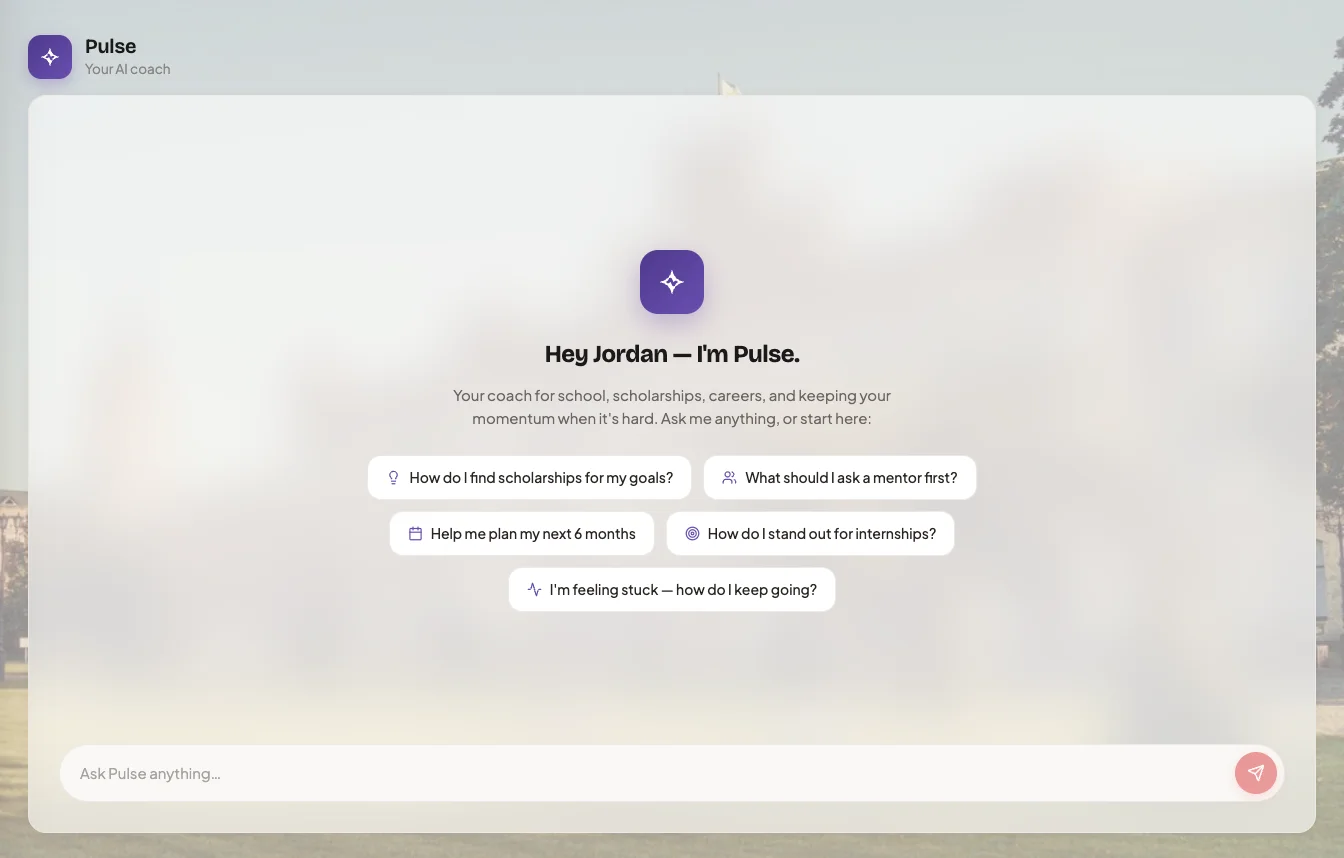
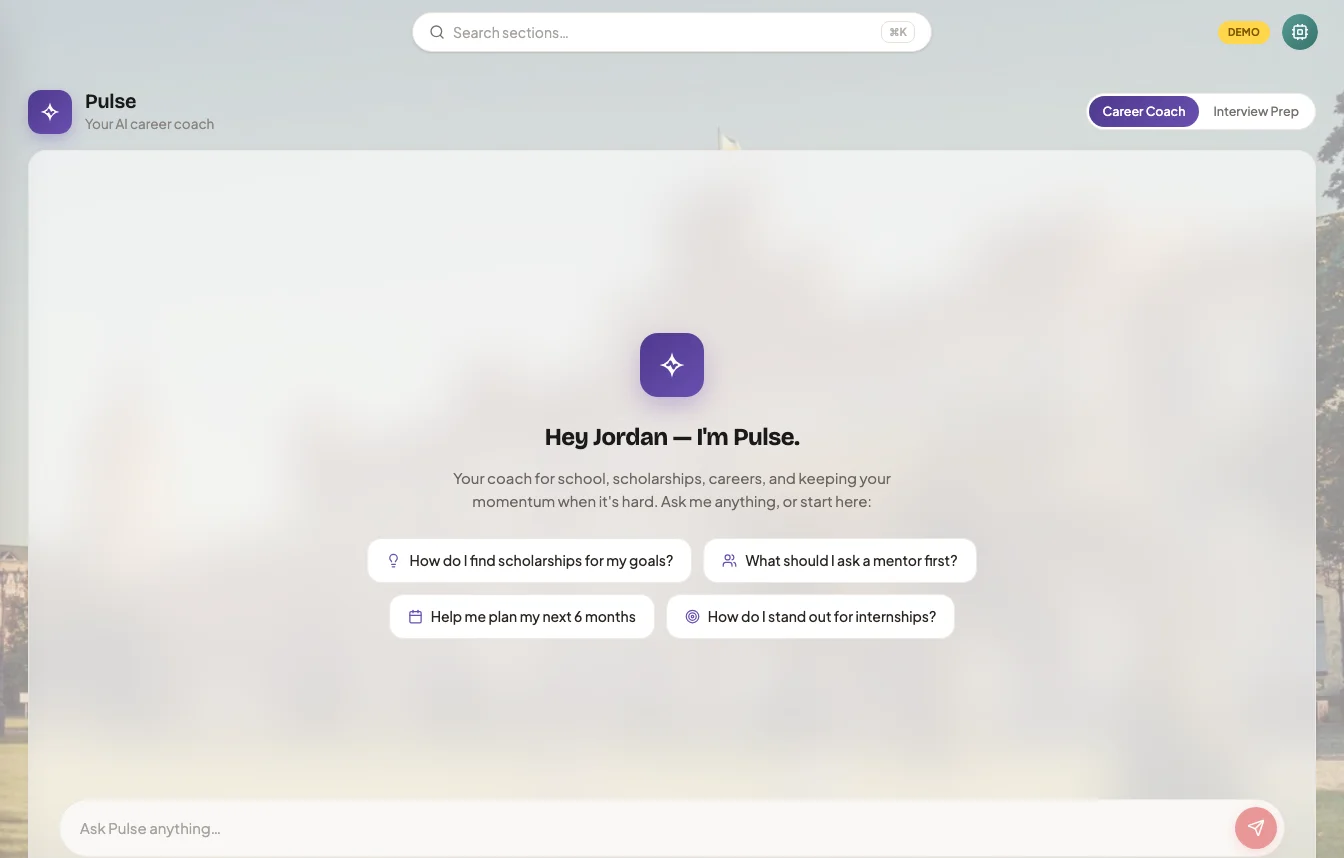
Pulse row: Stay connected, Interview Prep bullet, new screenshot; drop 'not made-up ones'

diff --git a/index.html b/index.html
@@ -834,7 +834,7 @@ a { text-decoration: none; color: inherit; }
           <svg viewBox="0 0 24 24" fill="none" stroke="currentColor" stroke-width="2" width="12" height="12"><path d="m22 2-7 20-4-9-9-4Z"/><path d="M22 2 11 13"/></svg>
           Web exclusive
         </span>
-        <h3>Conversations. <span class="accent">Keep in touch.</span></h3>
+        <h3>Conversations. <span class="accent">Stay connected.</span></h3>
         <p class="lede">Found an article that changed how you think? Send it. Have a quick note that doesn't need a video answer? Share it. Conversations is a private, asynchronous space between you and your mentor, only on the web.</p>
         <ul>
           <li><svg viewBox="0 0 24 24" fill="none" stroke="currentColor" stroke-width="2.4" stroke-linecap="round" stroke-linejoin="round"><path d="M20 6 9 17l-5-5"/></svg><span><strong>Share articles and notes</strong> directly with your matched mentor</span></li>
@@ -861,11 +861,12 @@ a { text-decoration: none; color: inherit; }
           AI · 18+
         </span>
         <h3>Pulse AI. <span class="accent">Personal Career Coach.</span></h3>
-        <p class="lede">Your mentor answers when they're next on P3. Pulse answers now. It knows your profile, your goals, and your questions, and it replies with real, curated links, not made-up ones.</p>
+        <p class="lede">Your mentor answers when they're next on P3. Pulse answers now. It knows your profile, your goals, and your questions, and it replies with real, curated links.</p>
         <ul>
           <li><svg viewBox="0 0 24 24" fill="none" stroke="currentColor" stroke-width="2.4" stroke-linecap="round" stroke-linejoin="round"><path d="M20 6 9 17l-5-5"/></svg><span><strong>Persistent conversations</strong> — pick up where you left off</span></li>
           <li><svg viewBox="0 0 24 24" fill="none" stroke="currentColor" stroke-width="2.4" stroke-linecap="round" stroke-linejoin="round"><path d="M20 6 9 17l-5-5"/></svg><span><strong>Real resources only</strong> — every link is verified, never invented</span></li>
           <li><svg viewBox="0 0 24 24" fill="none" stroke="currentColor" stroke-width="2.4" stroke-linecap="round" stroke-linejoin="round"><path d="M20 6 9 17l-5-5"/></svg><span><strong>Personalized to you</strong> — your industry, stage, and interests</span></li>
+          <li><svg viewBox="0 0 24 24" fill="none" stroke="currentColor" stroke-width="2.4" stroke-linecap="round" stroke-linejoin="round"><path d="M20 6 9 17l-5-5"/></svg><span><strong>Interview Prep</strong> — five realistic questions, then honest feedback</span></li>
         </ul>
       </div>
       <div class="fr-visual">